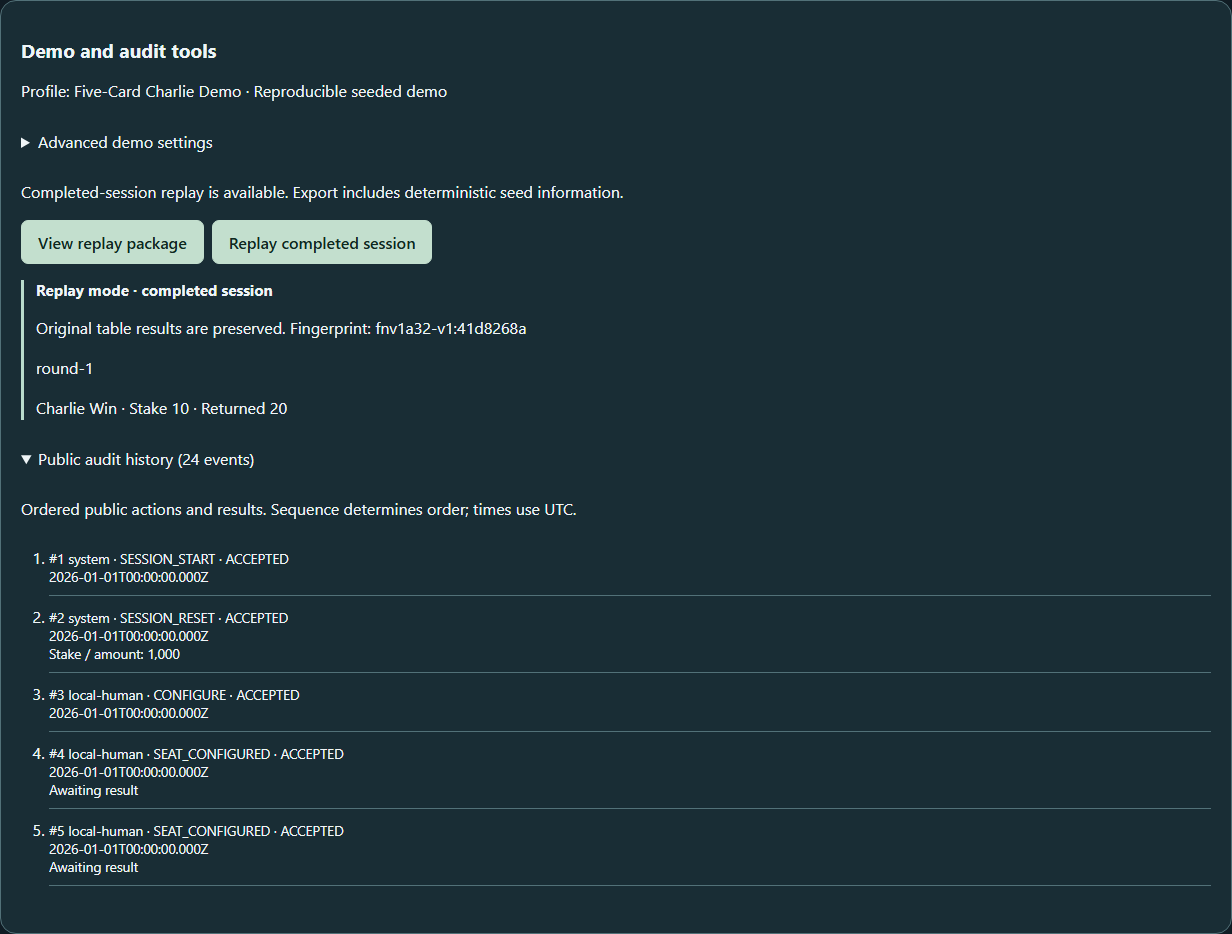
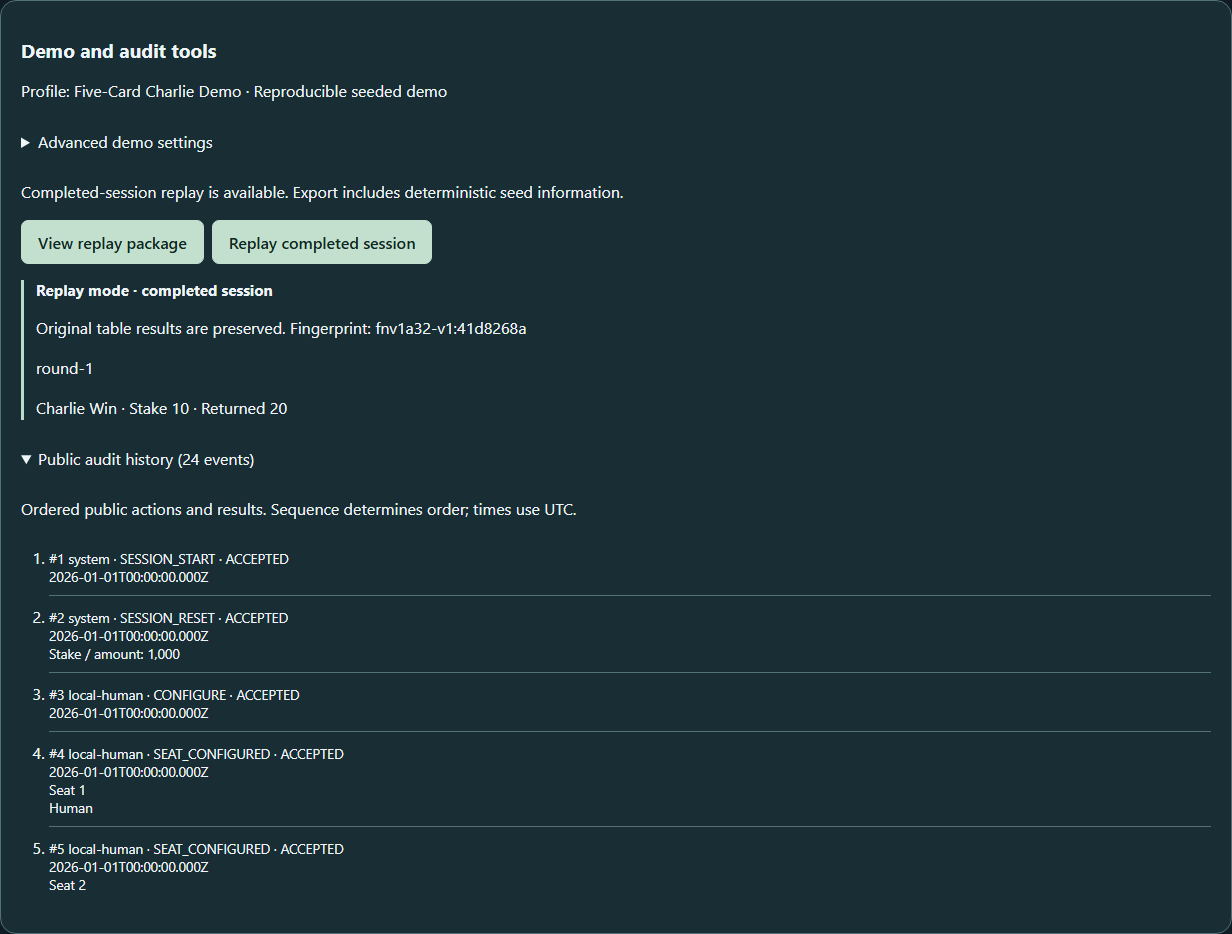
fix: improve M8 audit presentation and portfolio evidence

Changed region(s): [[0.0308, 0.8383, 0.2776, 0.9625]]

diff --git a/tests/browser/m8.spec.ts b/tests/browser/m8.spec.ts
@@ -14,6 +14,8 @@ test('[REG-M8-079] Classic five-card hand has no Charlie result and can continue
 });
 test('[REG-M8-080] Charlie profile is selected explicitly before seeded play',async({page})=>{
   await start(page);await expect(page.getByRole('region',{name:'Demo and audit tools'})).toContainText('Profile: Five-Card Charlie Demo');
+  await expect(page.getByRole('region',{name:'Demo and audit tools'})).toContainText('A legal Hit that brings the hand to exactly five cards with a total of 21 or less wins 1:1.');
+  await expect(page.getByRole('region',{name:'Demo and audit tools'})).not.toContainText('fifth legal Hit');
   await expect(page.getByLabel('New session profile')).toBeDisabled();
 });
 test('[REG-M8-081] five-card Charlie presents normal 1:1 return and ends actions',async({page})=>{
@@ -46,11 +48,37 @@ test('[REG-M8-086] completed replay reproduces result, is clearly marked and pre
   await button(page,'Replay completed session').click();await expect(page.getByRole('region',{name:'Replay result'})).toContainText('Replay mode');
   await expect(page.getByRole('region',{name:'Replay result'})).toContainText('Charlie Win');expect(await page.getByRole('region',{name:'Main hand results'}).textContent()).toBe(before);
 });
-test('[REG-M8-087] public audit is ordered and shows actor action UTC time and stake',async({page})=>{
+test('[REG-M8-087] public audit displays ordered attribution UTC amounts refunds and pre-round seat occupancy',async({page})=>{
   await start(page);await button(page,'Hit').click();await page.getByText(/Public audit history \(/).click();
   const items=page.locator('.audit-list li');const values=await items.evaluateAll(nodes=>nodes.map(n=>Number(n.getAttribute('value'))));
   expect(values).toEqual(values.map((_,i)=>i+1));await expect(page.locator('.audit-list')).toContainText('local-human · HIT · ACCEPTED');
   await expect(page.locator('.audit-list')).toContainText('Stake / amount: 10');expect(await page.locator('.audit-list time').first().getAttribute('datetime')).toMatch(/Z$/);
+  const configured=page.locator('.audit-list li').filter({hasText:'SEAT_CONFIGURED'});
+  await expect(configured.filter({hasText:'Seat 1'})).toContainText('Human');
+  await expect(configured.filter({hasText:'Seat 2'})).toContainText('Empty');
+  for(const row of await configured.all())await expect(row).not.toContainText('Awaiting result');
+  await expect(configured.filter({hasText:'Seat 1'})).not.toContainText('round-1');
+
+  await page.goto('/?fixture=setup');await page.getByLabel('Computer at Seat 2',{exact:true}).check();
+  await button(page,'Open betting').click();await page.getByText(/Public audit history \(/).click();
+  await expect(configured.filter({hasText:'Seat 2'})).toContainText('Computer');
+  await expect(configured.filter({hasText:'Seat 3'})).toContainText('Empty');
+  await button(page,'Set Your MAIN at Seat 1').click();await button(page,'Set Pair side bet').click();
+  await button(page,'Set Computer MAIN at Seat 2').click();await page.getByLabel('Bet Behind target',{exact:true}).selectOption('2');
+  await button(page,'Set Bet Behind Seat 2').click();
+  await button(page,'Cancel Your MAIN at Seat 1').click();await button(page,'Cancel Computer MAIN at Seat 2').click();
+  for(const [type,stake] of [['MAIN_CANCEL','10'],['PAIR_CANCEL','1'],['BACK_CANCEL','10']]){
+    const cancelled=page.locator('.audit-list li').filter({hasText:type});
+    for(const row of await cancelled.all()){
+      await expect(row).toContainText(`Stake / amount: ${stake}`);await expect(row).toContainText(`Returned ${stake}`);
+    }
+    expect(await cancelled.count()).toBeGreaterThan(0);
+  }
+
+  await page.goto('/?fixture=setup');await page.getByLabel('Sit out this round',{exact:true}).check();
+  await button(page,'Open betting').click();await page.getByText(/Public audit history \(/).click();
+  await expect(configured.filter({hasText:'Seat 1'})).toContainText('Sitting Out');
+  for(const row of await configured.all())await expect(row).not.toContainText('Awaiting result');
 });
 test('[REG-M8-088] active audit leaks no known hole identity, physical ID, seed or future shoe',async({page})=>{
   await page.goto('/?fixture=basic');await page.getByText(/Public audit history \(/).click();const audit=await page.locator('.audit-list').textContent();

diff --git a/src/ui/DemoTools.tsx b/src/ui/DemoTools.tsx
@@ -3,6 +3,10 @@ import type { BrowserController, BrowserView } from '../browser/controller.js';
 import { CLASSIC, CHARLIE, type ProfileId } from '../domain/profile.js';
 import { credits, resultLabel } from './presentation.js';
 
+const seatOccupancyLabels: Readonly<Record<string, string>> = {
+  HUMAN: 'Human', COMPUTER: 'Computer', EMPTY: 'Empty', SITTING_OUT: 'Sitting Out',
+};
+
 export function DemoTools({ controller, view }: { controller: BrowserController; view: BrowserView }) {
   const [profile, setProfile] = useState<ProfileId>(view.profileId);
   const [seed, setSeed] = useState('');
@@ -13,7 +17,7 @@ export function DemoTools({ controller, view }: { controller: BrowserController;
   return <section className="panel demo-tools" aria-label="Demo and audit tools">
     <h2>Demo and audit tools</h2><p>Profile: {label} · {view.seeded ? 'Reproducible seeded demo' : 'Normal random demo'}</p>
     <details><summary>Advanced demo settings</summary>
-      {(view.canStartDemo || view.profileId === CHARLIE) && <p>Five-Card Charlie is a custom demonstration profile. A fifth legal Hit of 21 or less wins 1:1.</p>}
+      {(view.canStartDemo || view.profileId === CHARLIE) && <p>Five-Card Charlie is a custom demonstration profile. A legal Hit that brings the hand to exactly five cards with a total of 21 or less wins 1:1.</p>}
       <label htmlFor="demo-profile">New session profile</label><select id="demo-profile" disabled={!view.canStartDemo} value={profile}
         onChange={e => setProfile(e.target.value as ProfileId)}>
         {view.canStartDemo ? <><option value={CLASSIC}>Classic Blackjack</option><option value={CHARLIE}>Five-Card Charlie Demo</option></>
@@ -49,9 +53,14 @@ export function DemoTools({ controller, view }: { controller: BrowserController;
       <ol className="audit-list">{view.audit.map(e => <li key={e.sequence} value={e.sequence}>
         <span>#{e.sequence} {e.actorId} · {e.type} · {e.status}</span>
         <time dateTime={e.timestamp}>{e.timestamp}</time>
-        {e.roundId && <span>{e.roundId}{e.seat && ` · Seat ${e.seat}`}{e.handId && ` · ${e.handId}`}</span>}
+        {e.roundId && <span>{e.roundId}</span>}
+        {e.seat !== null && <span>Seat {e.seat}</span>}
+        {e.handId && <span>{e.handId}</span>}
         {e.amountUnits !== null && <span>Stake / amount: {credits(e.amountUnits)}</span>}
-        {e.outcome && <span>{resultLabel(e.outcome)}{e.returnedUnits !== null && ` · Returned ${credits(e.returnedUnits)}`}</span>}
+        {e.outcome && <span>{e.type === 'SEAT_CONFIGURED'
+          ? (seatOccupancyLabels[e.outcome] ?? e.outcome)
+          : resultLabel(e.outcome)}</span>}
+        {e.returnedUnits !== null && <span>Returned {credits(e.returnedUnits)}</span>}
         {e.reason && <span>{e.status === 'REJECTED' ? 'Request unavailable' : 'Round interrupted'}</span>}
       </li>)}</ol>
     </details>

diff --git a/src/domain/audit.ts b/src/domain/audit.ts
@@ -96,7 +96,7 @@ export function createAuditTrail(initial: BehindGameState, clock: Clock = utcClo
       actorId: controllerId(before, action.seatNumber) ?? 'system', seat: action.seatNumber,
       handId: action.handId, wagerId: `${action.handId}/MAIN`, amountUnits: action.stakeUnits, commandId });
     if (command.type === 'CONFIGURE') for (const s of command.seats) append(after, { type: 'SEAT_CONFIGURED', actorId: 'local-human',
-      seat: s.seatNumber, outcome: s.occupancy, commandId });
+      seat: s.seatNumber, outcome: s.sittingOut ? 'SITTING_OUT' : s.occupancy, commandId });
     if (command.type === 'CLOSE') append(after, { type: 'INITIAL_DEAL', commandId });
     const prior = before.table.game.round;
     const round = after.table.game.round;

diff --git a/tests/integration/replay.test.ts b/tests/integration/replay.test.ts
@@ -11,7 +11,7 @@ it('[REG-M8-025] Classic package repeats final public state and exact result rec
   expect(first).toEqual(replay(JSON.stringify(p)));
   expect(first.outcomes[0].resultRecords[0]).toMatchObject({ stakeUnits: 200, status: 'COMMITTED' });
 });
-it('[REG-M8-026] Charlie replay reproduces fifth legal Hit with exact 1:1 outcome', () => {
+it('[REG-M8-026] Charlie replay reproduces a legal Hit producing the fifth card with exact 1:1 outcome', () => {
   const s = startSession(21, CHARLIE); closeAce(s);
   for (let i = 0; i < 3; i++) send(s, { type: 'ACT', action: 'HIT', handId: 'round-1/seat-1' });
   const p = finishSession(s); const r = replay(p);

diff --git a/tests/integration/m8Invariants.test.ts b/tests/integration/m8Invariants.test.ts
@@ -86,7 +86,7 @@ it('[REG-M8-071] 256 explicit fault sessions conserve actual stakes and VOID exa
     expect(s.dispatch({type:'VOID'})).toMatchObject({ok:false,state});expect(replay(s.exportPackage()).outcomes).toEqual(s.getOutcomes());
   }
 });
-it('[REG-M8-072] controlled fifth legal Hit across both profiles: exact Charlie eligibility/payout/terminal and no stacked Natural',()=>{
+it('[REG-M8-072] controlled legal Hit producing the fifth card across both profiles: exact Charlie eligibility/payout/terminal and no stacked Natural',()=>{
   for(const profile of [CLASSIC,CHARLIE]){
     const s=startSession(21,profile);closeAce(s);
     for(let n=0;n<3;n++){

diff --git a/tests/unit/portfolio.test.ts b/tests/unit/portfolio.test.ts
@@ -22,4 +22,6 @@ it('README runnable commands match package scripts and required verification too
   expect(existsSync('scripts/verify.ps1')).toBe(true);
   expect(existsSync('tests/browser/portfolio.spec.ts')).toBe(true);
   expect(readme).toContain('REG-M8-001..092');
+  expect(readme).toContain('a legal Hit that brings the hand to exactly five cards with a total of 21 or less wins 1:1');
+  expect(readme).not.toMatch(/fifth (?:legal )?Hit/);
 });

diff --git a/docs/DESIGN.md b/docs/DESIGN.md
@@ -2,15 +2,15 @@
 
 ## Implemented M8 extension (user batch contract)
 
-Two immutable profiles vary only Five-Card Charlie: CLASSIC_6D_S17_V1_1 (OFF) and CHARLIE5_6D_S17_V1_1 (ON). Selected at current M4-M6 session creation, retained across commands/rounds; historical M1-M3 stay Classic. T01 introduced identity; T02 activates exactly-fifth-legal-Hit precedence and explicit CHARLIE/FIVE_CARD_CHARLIE outcome. No arbitrary rule configuration.
+Two immutable profiles vary only Five-Card Charlie: CLASSIC_6D_S17_V1_1 (OFF) and CHARLIE5_6D_S17_V1_1 (ON). Selected at current M4-M6 session creation, retained across commands/rounds; historical M1-M3 stay Classic. T01 introduced identity; T02 activates precedence for a legal Hit producing exactly five total cards at <=21 and explicit CHARLIE/FIVE_CARD_CHARLIE outcome. No arbitrary rule configuration.
 
 Seeded source MULBERRY32_REJECTION_V1 takes uint32 0..4294967295. Private state adds 0x6d2b79f5 modulo 2^32; Mulberry32 XOR shifts and Math.imul mix output. Integer bounds 1..2^32 use rejection sampling: reject samples >= floor(2^32/bound)*bound, return sample % bound. Descending Fisher-Yates consumes it followed by cut selection. No strings, Math.random fallback, exposed state or certification claim. Version stays stable for replay v1.
 
 Replay v1 records explicit configuration and contiguous accepted intents through sessionCommand.ts, then independently applies the real M6 handlers. Strict decoding rejects unsupported versions/unknown keys or commands and attributes handler failure by sequence. Canonical sorted-key terminal outcomes (public state, committed own/follower records and participant balances across rounds) use timestamp-free fnv1a32-v1 over UTF-16 code units. This is comparison evidence, not authentication. No state snapshot import. Full export requires financial COMMITTED/VOID; internal getState/developer owner/fault seams never reach React. See REPLAY.md.
 
-Public audit v1 observes before/result transitions without driving gameplay. Frozen primitive events carry sequence/UTC clock, profile/round/actor/seat/hand/wager/command/stake/gross/outcome/status/reason; rejected attempts preserve state and do not enter the successful replay journal. Sequence determines order, even with identical injected times. No card/physical-ID/shoe/seed fields. NEXT preserves archived events. See AUDIT.md.
+Public audit v1 observes before/result transitions without driving gameplay. Frozen primitive events carry sequence/UTC clock, profile/round/actor/seat/hand/wager/command/stake/gross/outcome/status/reason; rejected attempts preserve state and do not enter the successful replay journal. Sequence determines order, even with identical injected times. Actual COMPUTER HIT/STAND observations come from the production progression loop, not card-count differences or a copied policy. Automatic child supplements are distinct from Hits. Removed before/after wagers supply actual cancelled stake/refunds and dependent owner/seat/wager attribution with the same command ID; audit never mutates funds. No card/physical-ID/shoe/seed fields. NEXT preserves archived events. See AUDIT.md.
 
-Browser controller owns private authoritative state/RNG/journal and an observational audit. Normal random sessions retain accepted M7 behaviour. Optional seeded/profile start is guarded to eligible new sessions; active snapshot includes only seeded boolean, never seed/state. Terminal replay renders a separate marked result without replacing original state; NEXT removes result/export availability. Secondary DemoTools uses native accessible controls/collapsible history. E2E fixtures remain production-excluded. 256-seed invariants, exact 91 REG mapping, mandatory historical preservation and reproducible public screenshots support the final harness. No event-sourced store, persistence/network recovery, prediction UI or hidden fault replay.
+Browser controller owns private authoritative state/RNG/journal and an observational audit. Normal random sessions retain accepted M7 behaviour. Optional seeded/profile start is guarded to eligible new sessions; active snapshot includes only seeded boolean, never seed/state. Terminal replay renders a separate marked result without replacing original state; NEXT removes result/export availability. Secondary DemoTools uses native accessible controls/collapsible history. Seat/hand information does not require a round ID; configuration occupancy has separate readable labels and actual refunds display without requiring a game outcome. E2E fixtures remain production-excluded. 256-seed invariants, exact 92 REG mapping, mandatory historical preservation and reproducible public screenshots support the final harness. No event-sourced store, persistence/network recovery, prediction UI or hidden fault replay.
 
 ## Accepted M7 architecture (historical scope, extended above by M8)
 

diff --git a/docs/M8_MAPPING.md b/docs/M8_MAPPING.md
@@ -33,7 +33,7 @@ Full harness also preserves M1-M7 independently through verify-preservation.ps1,
 | REG-M8-023 | [tests/integration/charlie.test.ts](../tests/integration/charlie.test.ts) | split follower ADD pays Charlie on first actual child and independent second-child bust |
 | REG-M8-024 | [tests/integration/charlie.test.ts](../tests/integration/charlie.test.ts) | split follower NO_ADD receives only first-child Charlie on original actual stake |
 | REG-M8-025 | [tests/integration/replay.test.ts](../tests/integration/replay.test.ts) | Classic package repeats final public state and exact result records |
-| REG-M8-026 | [tests/integration/replay.test.ts](../tests/integration/replay.test.ts) | Charlie replay reproduces fifth legal Hit with exact 1:1 outcome |
+| REG-M8-026 | [tests/integration/replay.test.ts](../tests/integration/replay.test.ts) | Charlie replay reproduces a legal Hit producing the fifth card with exact 1:1 outcome |
 | REG-M8-027 | [tests/integration/replay.test.ts](../tests/integration/replay.test.ts) | split replay routes real handlers and preserves leaf records |
 | REG-M8-028 | [tests/integration/replay.test.ts](../tests/integration/replay.test.ts) | Insurance replay records real independent purchase and result |
 | REG-M8-029 | [tests/integration/replay.test.ts](../tests/integration/replay.test.ts) | Bet Behind replay retains separate actual follower stake |
@@ -79,7 +79,7 @@ Full harness also preserves M1-M7 independently through verify-preservation.ps1,
 | REG-M8-069 | [tests/integration/m8Invariants.test.ts](../tests/integration/m8Invariants.test.ts) | cut crossing preserves shoe identity and position throughout seeded draws |
 | REG-M8-070 | [tests/integration/m8Invariants.test.ts](../tests/integration/m8Invariants.test.ts) | 256 three-round sessions conserve cards/funds/reservations, settle once and replay equally |
 | REG-M8-071 | [tests/integration/m8Invariants.test.ts](../tests/integration/m8Invariants.test.ts) | 256 explicit fault sessions conserve actual stakes and VOID exactly once with replay equality |
-| REG-M8-072 | [tests/integration/m8Invariants.test.ts](../tests/integration/m8Invariants.test.ts) | controlled fifth legal Hit across both profiles: exact Charlie eligibility/payout/terminal and no stacked Natural |
+| REG-M8-072 | [tests/integration/m8Invariants.test.ts](../tests/integration/m8Invariants.test.ts) | controlled legal Hit producing the fifth card across both profiles: exact Charlie eligibility/payout/terminal and no stacked Natural |
 | REG-M8-073 | [tests/integration/m8Invariants.test.ts](../tests/integration/m8Invariants.test.ts) | Charlie follower result retains actual exposure through seeded replay |
 | REG-M8-074 | [tests/unit/m8Contract.test.ts](../tests/unit/m8Contract.test.ts) | M8 profile RNG replay audit and UX documentation matches implemented identifiers and safe boundary |
 | REG-M8-075 | [tests/unit/m8Contract.test.ts](../tests/unit/m8Contract.test.ts) | runtime source and package have no network persistence auth payment or deployment capability |
@@ -94,7 +94,7 @@ Full harness also preserves M1-M7 independently through verify-preservation.ps1,
 | REG-M8-084 | [tests/browser/m8.spec.ts](../tests/browser/m8.spec.ts) | same seeded browser run reproduces public cards and terminal return |
 | REG-M8-085 | [tests/browser/m8.spec.ts](../tests/browser/m8.spec.ts) | replay JSON is available only at finalized seeded boundary and removed on next round |
 | REG-M8-086 | [tests/browser/m8.spec.ts](../tests/browser/m8.spec.ts) | completed replay reproduces result, is clearly marked and preserves original |
-| REG-M8-087 | [tests/browser/m8.spec.ts](../tests/browser/m8.spec.ts) | public audit is ordered and shows actor action UTC time and stake |
+| REG-M8-087 | [tests/browser/m8.spec.ts](../tests/browser/m8.spec.ts) | public audit displays ordered attribution UTC amounts refunds and pre-round seat occupancy |
 | REG-M8-088 | [tests/browser/m8.spec.ts](../tests/browser/m8.spec.ts) | active audit leaks no known hole identity, physical ID, seed or future shoe |
 | REG-M8-089 | [tests/browser/m8.spec.ts](../tests/browser/m8.spec.ts) | active seeded DOM and accessible output omit seed value and replay package |
 | REG-M8-090 | [tests/browser/m8.spec.ts](../tests/browser/m8.spec.ts) | M8 tools and replay JSON remain usable at 320px without overflow |

diff --git a/docs/DEVELOPMENT_LOG.md b/docs/DEVELOPMENT_LOG.md
@@ -1,3 +1,15 @@
+### 2026-09-30 15:19:58 +08:00 - T05/T08 review repair 2 VERIFIED
+
+Official verify.ps1 returned0: typecheck/lint/domain compile/production build fixture exclusion,66Vitest files/952tests (start15:18:00,11.40s),38Chromium/33.2s, independent M1-M7 preservation including56/870+24Chromium/18.5s PASS. Repeated generation in the full harness matched all three PORTFOLIO SHA-256 values. Complete 14-file task diff inspected (including the changed PNG), whitespace/status checks and publication follow. Final document/mapping check2files/3tests PASS/0 at15:21:01. T05=2/10,T08=2/10; current M8 0,2,2,2,2,1,1,2,1; historical M1-M7 counts unchanged. All findings OPEN pending reviewer recheck. No acceptance/deployment.
+
+### 2026-09-30 15:18:26 +08:00 - T05/T08 review repair 2 targeted evidence
+
+T04/T07 published027903a08e498c2f82bd330b7eeea7dde0677031 at15:10:00 +08:00, normal commit/push/fetch exits0, main=origin/main,0/0,clean. T05/T08 scope is LOW-01 event-aware configuration presentation, LOW-02 accurate five-total-card copy, and public screenshot evidence only. LOW-01 hypothesis: independent round/seat/hand rendering plus occupancy-specific labels fixes null-round configuration without changing game result labels. Sitting-out configuration records SITTING_OUT; returnedUnits displays independently so cancellation releases are visible. LOW-02 hypothesis: replace the misleading fifth-Hit wording with a legal Hit producing exactly five total cards <=21. README/UI and current DESIGN/mapping/test descriptions updated; historical log prose remains historical and is corrected by this entry.
+
+Typecheck and targeted replay/audit/browserDemo/mapping/portfolio 5files/46tests PASS/0 (start15:12:42). First affected browser run13PASS/1FAIL: new REG-087 mistakenly used a single-element not.toContainText on seven configuration events. Failure snapshot already showed Seat1Human/Seat2Empty. Changed only the assertion to inspect each event, retaining the expected absence of Awaiting result. Recheck14Chromium PASS/0,17.1s, inspected15:15:28; REG-087 now checks Human/Computer/Empty/Sitting Out without round IDs, actor/actions/UTC/stake/order and visible MAIN/PAIR/BACK amounts/returns. REG-080 checks exact rendered five-card copy. A later documentation patch failed atomically on context before writes, then used the actual read text.
+
+The unchanged portfolio workflow regenerated all three public screenshots twice. Hashes at15:15:02 and15:15:28 agree: Classic0176BC5146D8E35554886B0245334F3B73368DD2A845E7436E3176F410572394; Charlie5FC9E2A852C90DF27DD986748B3E8E5146A95F2A7532CBCD877324FD4598DCE7; Replay/Audit6B07924F1D413170282EFF8D82EB0D73367ED09B9159F9D937A2F22B35B9D892. Classic/Charlie collapsed panels produce unchanged bytes; Replay/Audit intentionally changes. Visual inspection of all three confirms public UI, no private filesystem/user data, unrevealed dealer information, physical IDs or proprietary artwork. Hash equality is reproducibility evidence only. Repeated targeted46tests PASS at15:17:50; complete verify.ps1 follows. Files: audit.ts/DemoTools, m8 browser/replay/invariant/portfolio tests, README/AUDIT/DESIGN/M8_MAPPING/PORTFOLIO and replay-audit PNG. T05/T08 ledgers stay1 until final VERIFIED. All findings OPEN; no independent recheck/acceptance/deployment.
+
 ### 2026-09-30 15:04:39 +08:00 - T04/T07 final publication-version harness PASS
 
 Official owner-context verify.ps1 returned0 after the narrow REG-070 budget change: typecheck/lint/domain isolation/build fixture exclusion;66files/952tests (start15:02:48,13.75s);38Chromium/45.0s; independent M1 12/155,M2 6/78,M3 5/72,M4 7/171,M5 8/168,M6 9/181,M7 56/870 plus24Chromium/21.2s all PASS. Complete 15-file task diff and whitespace/status inspected; no gameplay/policy/RNG/digest/dependency change, no screenshot byte change in this checkpoint. T04/T07 ledgers remain2/1. Normal publication follows.

diff --git a/docs/STATE.md b/docs/STATE.md
@@ -6,7 +6,7 @@ Fresh independent review of eb85032604b03031b5b934818fda773ea9aae666 found 0 BLO
 
 Authorized baseline 2026-09-30 14:34:10 +08:00: main=HEAD=origin/main=eb85032604b03031b5b934818fda773ea9aae666, 0/0, clean. Recommended GPT Sol 6.1/High; actual model/effort NOT VERIFIED/NOT VERIFIED. Four coherent checkpoints: T03 strict profile decoding; T04 actual action observation/cascade refund audit with T07 REG-092; T05 readable configuration/Charlie copy with T08 README/screenshots; T09 current documentation/recheck handoff. Scope is the six findings only. Required checks: affected suites, exact mappings, full verify.ps1, diff/check/status, normal commit/push/fetch/parity/clean. Stop on authority conflict, unknown overlap, unavailable checks, unsafe publication or repair cap. No gameplay/RNG/digest/policy/persistence/network/deployment changes.
 
-Current M8 ledger: **0,2,2,2,1,1,1,1,1**. T03 review repair 2 published 0cff8522eed891aa0df5474760bed48f30575ec1 at 14:40:18 +08:00, normal push/fetch/main parity/0-0/clean PASS. Strict string guard and normalized configuration reject the reviewer's array package before handlers. T04 review repair 2 and T07 review repair 1 VERIFIED: actual production action observation and before/after cancellation attribution; REG-059 asserts seed21 HIT/HIT/STAND and seed36 supplement exclusion, REG-092 asserts actual MAIN/SIDE/BACK refunds. Targeted audit/browserDemo/map 3 files/26 tests PASS/0 at 14:48:17; full verify.ps1 PASS/0 inspected 14:53:31, 66/952 Vitest, 38 Chromium, all accepted M1-M7 preservation. Current mapping is REG-M8-001..092, 92 unique owners (79 Vitest/13 Chromium). M1-M7 ledgers remain unchanged. Findings MEDIUM-01..03 and LOW-01..03 are not CLOSED by implementation verification.
+Current M8 ledger: **0,2,2,2,2,1,1,2,1**. T03 review repair 2 published 0cff8522eed891aa0df5474760bed48f30575ec1 at14:40:18; T04 review repair2/T07 review repair1 published027903a08e498c2f82bd330b7eeea7dde0677031 at15:10:00 +08:00. Normal push/fetch/main parity/0-0/clean PASS at each checkpoint. Strict profile normalization, actual COMPUTER actions and cascade refunds are VERIFIED. T05/T08 review repair2 VERIFIED at15:19:58: independent seat/hand rendering, event-aware Human/Computer/Empty/Sitting Out labels, visible actual refunds, accurate five-total-card UI/README/current-document copy, regenerated public screenshots. Targeted5files/46tests and14Chromium PASS/0; full verify.ps1 PASS/0,66/952Vitest,38Chromium and accepted M1-M7 preservation. REG-M8-001..092 has92 unique owners (79Vitest/13Chromium); REG-087 retains ordering/UTC/actor/amount assertions and now checks configuration/refund presentation. All three public screenshot hashes matched repeated generation and were visually inspected; exact values in PORTFOLIO/log. T09 status/handoff update is next. M1-M7 ledgers remain unchanged. Findings MEDIUM-01..03 and LOW-01..03 are not CLOSED by implementation verification.
 
 M1-M7 are HUMAN ACCEPTED. M7 was explicitly accepted by the user ("I accept M7.") at **da6f068ffd27713848ed48f023c17ed388b8b44e**. User-supplied genuinely fresh review reported no BLOCKER/HIGH/MEDIUM/LOW findings, review/harness/56 files-870 tests/24 Chromium/UX-01..14/REG-M7-001..064/E2E-01..15/preservation/documentation PASS. This implementation conversation did not perform that independent review. Acceptance was recorded with substantive M8-T01 work.
 

diff --git a/docs/PORTFOLIO.md b/docs/PORTFOLIO.md
@@ -23,6 +23,16 @@ Casino Blackjack demonstrates TypeScript domain modelling, React/Vite integratio
 
 [Charlie result](images/charlie-result.png) and [replay/audit](images/replay-audit.png) are reproducible screenshots from `tests/browser/portfolio.spec.ts`, with fixed audit time and controlled real-domain commands. They contain public UI only; test factories are excluded from normal production builds. Screenshots are demonstration fixtures, not randomness/fairness evidence.
 
+Review repair regeneration runs the same three-image workflow. Classic and Charlie remain byte-identical because their audit/settings panels are collapsed; Replay/Audit now shows pre-round seat/occupancy correctly. Repeated generation on 2026-09-30 matched these SHA-256 values; equality proves reproducibility only. All three images were visually inspected: no private paths, hidden card state, physical card IDs or proprietary casino artwork.
+
+| Public image | SHA-256 |
+| --- | --- |
[3 lines of base64/hex data omitted]
+
+Regenerate with `npm.cmd run test:e2e -- tests/browser/portfolio.spec.ts`; compare with `Get-FileHash -Algorithm SHA256 docs/images/*.png`.
+
 Current mechanical evidence: 66 Vitest files/952 tests, 38 Chromium tests, [92 exact M8 regression owners](M8_MAPPING.md), and accepted M1–M7 preservation. [STATE](STATE.md) and [DEVELOPMENT_LOG](DEVELOPMENT_LOG.md) retain actual counts, timestamps, failures and checkpoint publication evidence.
 
 ## Honest boundaries

diff --git a/docs/AUDIT.md b/docs/AUDIT.md
@@ -14,4 +14,6 @@ Successful cancellations compare OPEN before/after wagers, without changing fund
 
 The public schema never accepts card objects, ranks/suits, physical card IDs, future order, discarded ownership, seed or PRNG state. Even a VOID event does not reveal a previously hidden hole. Full deterministic replay packages live behind a separate COMMITTED/VOID export boundary and must not be confused with this safe trail. Prior-round events stay immutable when NEXT starts new play; a deliberate new session/reset creates a new trail and explicitly restores simulation starting credits.
 
+SEAT_CONFIGURED has the applicable seat even before a round ID exists. Its outcome is HUMAN, COMPUTER, EMPTY or SITTING_OUT; the UI renders Human, Computer, Empty or Sitting Out separately from wager result labels. Round/seat/hand details render independently, and returnedUnits renders for cancellation/refund events even without a game outcome.
+
 Scope is local memory only. No audit authenticity, tamper resistance, certification, server authority, persistence, gambling compliance or production recovery claim.
